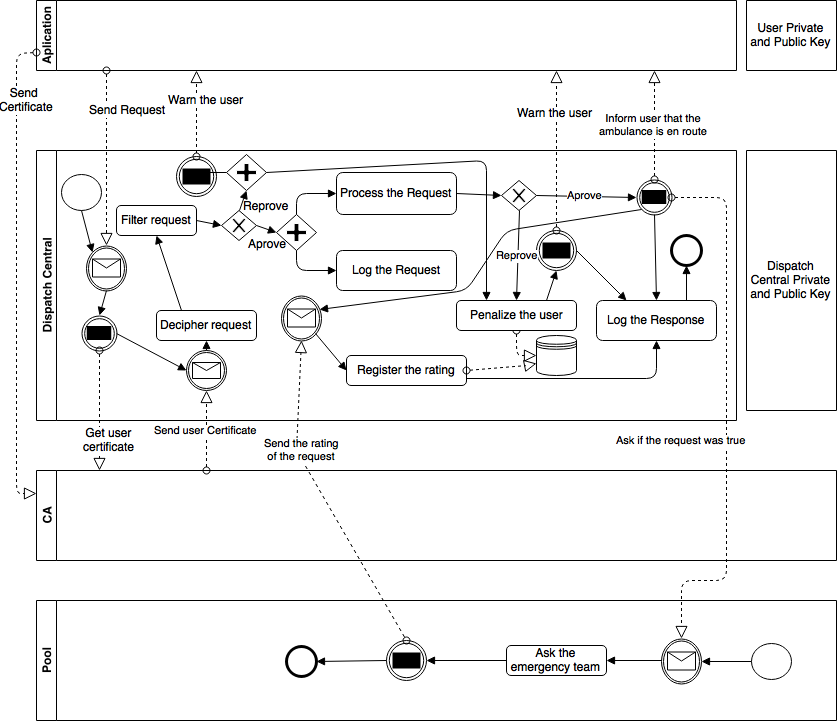
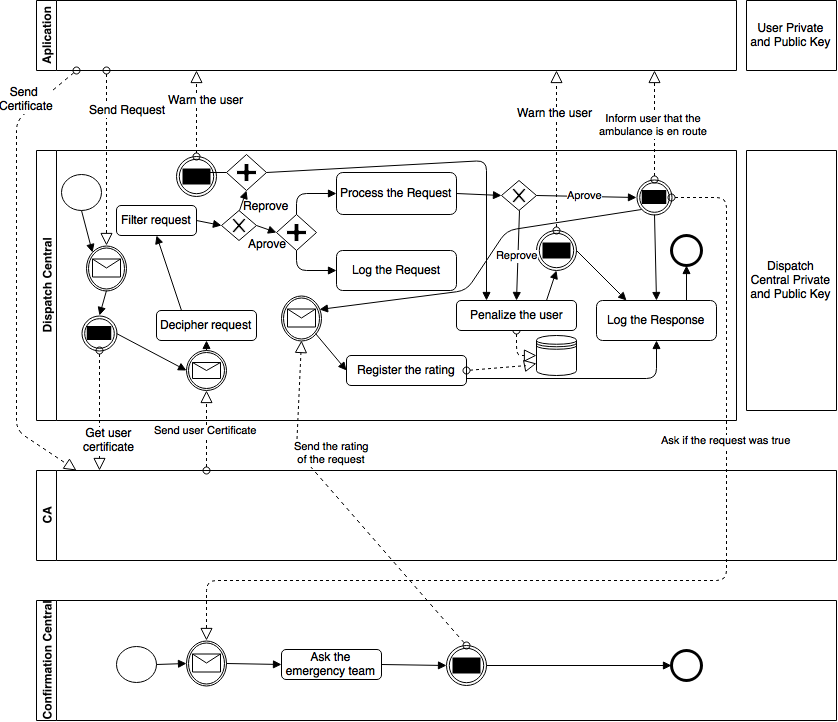
added results section

diff --git a/report/main.tex b/report/main.tex
@@ -6,6 +6,7 @@
 \usepackage{graphicx}
 \usepackage{fancyhdr}
 \usepackage{lastpage}
+\usepackage{soul}
 
 \pagestyle{fancy}
 \fancyhf{}
@@ -58,12 +59,14 @@ trigger an appropriate response.
 \begin{enumerate}
   \item Send an emergency request.
   \item Inform the estimated time for the user's request to be answered.
+  \item \st{Confirm or deny if there is an emergency nearby.}
 \end{enumerate}
 
 \subsection{Server Requirements}
 \begin{enumerate}
   \item Receive a request
   \item Insert a request in a queue depending on the user rating.
+  \item \st{Request confirmation from users nearby the emergency.}
   \item Log the requests.
   \item Send the expected response time.
   \item Send the confirmation that an ambulance is on route.
@@ -74,27 +77,41 @@ trigger an appropriate response.
 \subsection{Security Requirements}
 \begin{enumerate}
   \item Non-repudiation.
-  \item Fault tolerance to DoS.
-  \item Filter, responsible for filtering the requests.
+  \item \st{Fault tolerance to DoS.}
+  \item \st{Firewall, responsible for filtering the requests.}
+  \item \underline{Filter, responsible for filtering the requests.}
   \item Auditing mechanisms.
   \item Secure channel between user and Dispatch Central.
 \end{enumerate}
 
-\section{Implemented solution}
+\section{Solution}
 
-\begin{figure}[h]
+
+
+\section{Results / Implemented Solution}
+
+\begin{figure}[ht]
     \centering
     \includegraphics[scale=0.50]{img/advanced-solution.png}
 \end{figure}
 
-% TODO: Non-Repudiation
-% TODO: Fault tolerance to DoS.
-% TODO: Auditing mechanisms
-% TODO: Secure channel
+Our solution has two main components: the dispatch central and the user aplication.
+In order to meet the security requirements we also implemented a certificate authority and a confirmation central.
 
-\section{Results}
+The user aplication allow the user to send emergency requests. When starting the application it first sends
+the user certificate to the certificate authority. Then the user is able to send requests to the dispatch central.
+
+When receiving a request the dispatch central asks the CA for the user certificate in order to decipher the request and
+passes it through a series of filters to exclude false ones. Only processing the accepted ones. The dispatch central then
+notifies the user either that help is on the way or that the request sent was false and reminds the user of the consequences.
+After an emergency team is dispatched the server asks the confirmation central if it was actually a real request.
+If it wasn't the user is penalized.
+
+All this comunications between the components are made using Java SSL Sockets in order to guarantee a secure channels and
+always cyphered using the proper certificates provided by the certificate authority.
 
 \section{Evaluation}
+With our implementation we reached the majority of the security requirements proposed.
 
 \section{Conclusion}
 
@@ -103,7 +120,7 @@ trigger an appropriate response.
 \subsection{Tool References}
 \begin{description}
   \item [PostgreSQL] \href{https://www.postgresql.org}{Database to save the users.}
-  \item [javax.net.ssl.SSLServerSocket] \href{https://docs.oracle.com/javase/7/docs/api/java/net/Socket.html}{Establish a secure connection between the server and the application.}
+  \item [javax.net.ssl.SSLServerSocket] \href{https://docs.oracle.com/javase/7/docs/api/java/net/Socket.html}{Establish a secure connection.}
   \item [PostgreSQL JDBC] \href{https://jdbc.postgresql.org}{Driver to use PostgreSQL with Java.}
 \end{description}
 
